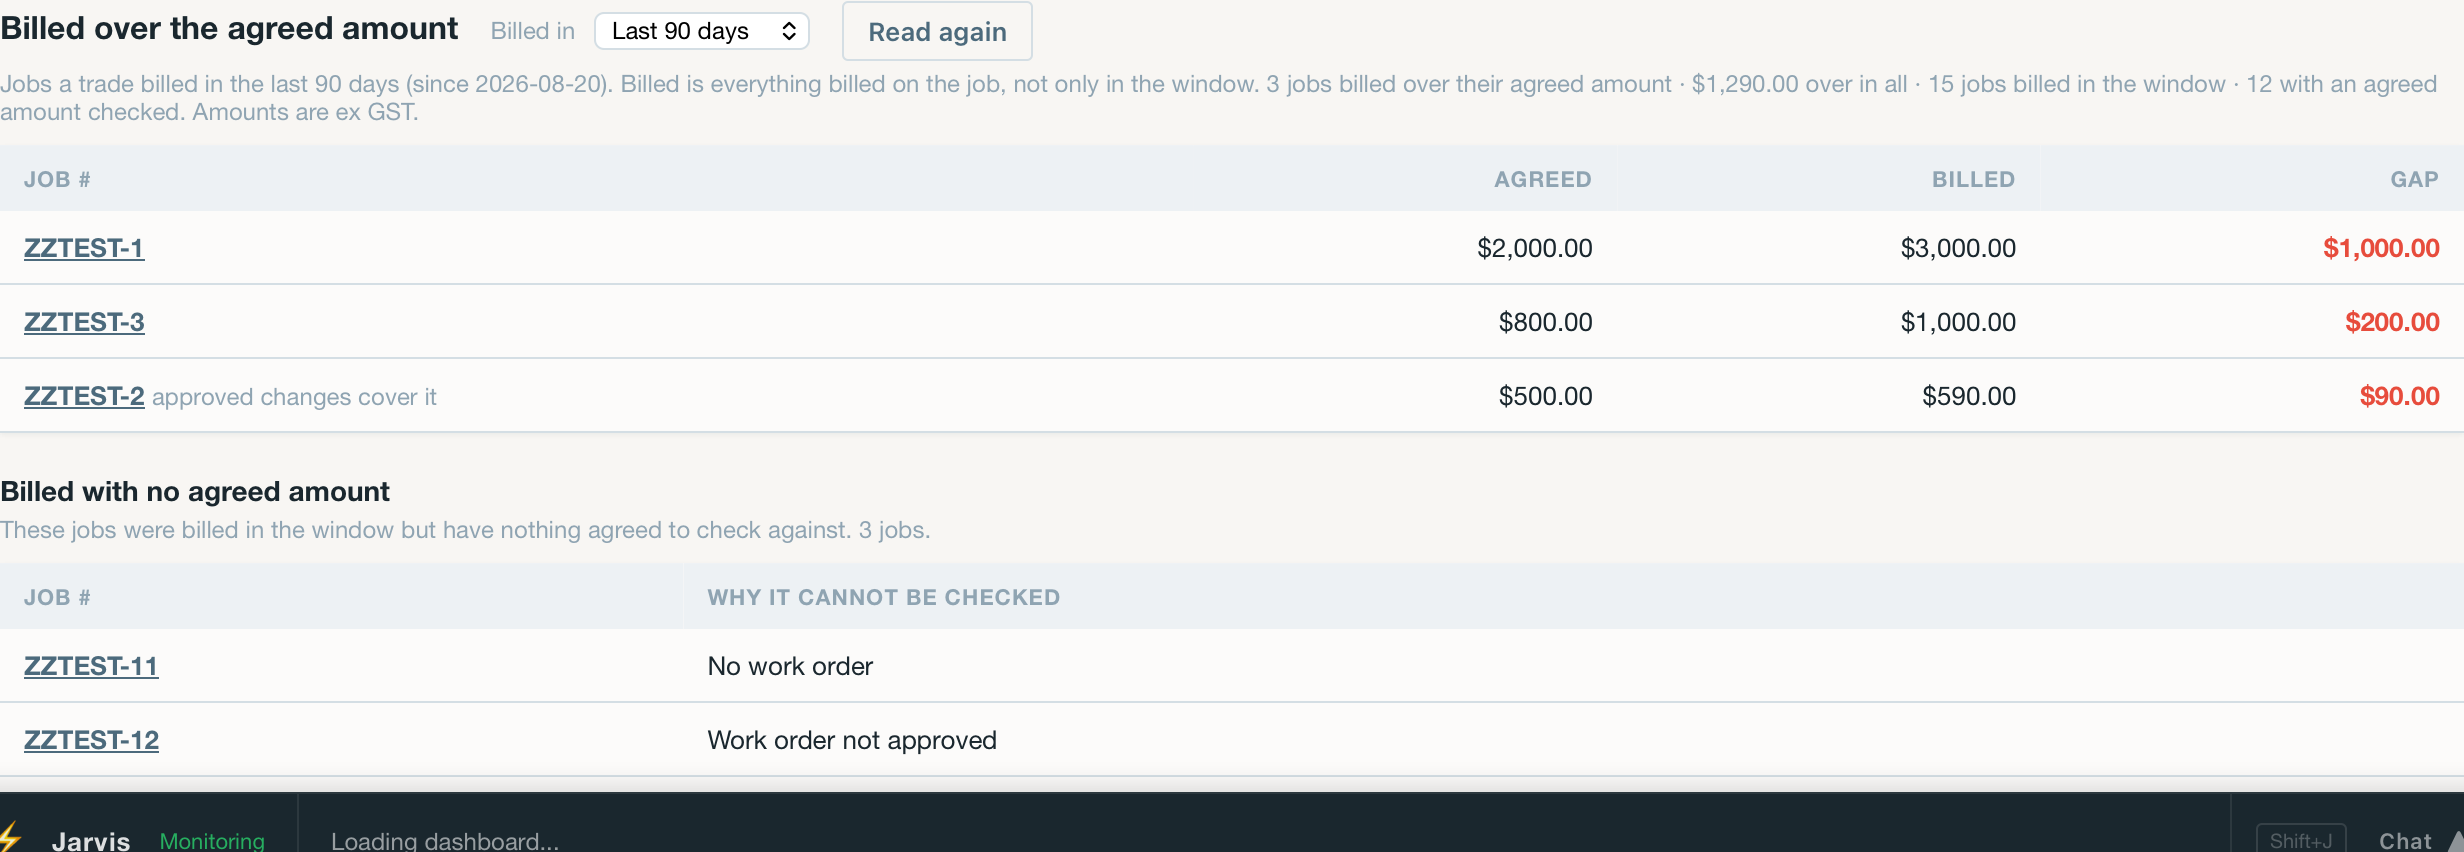
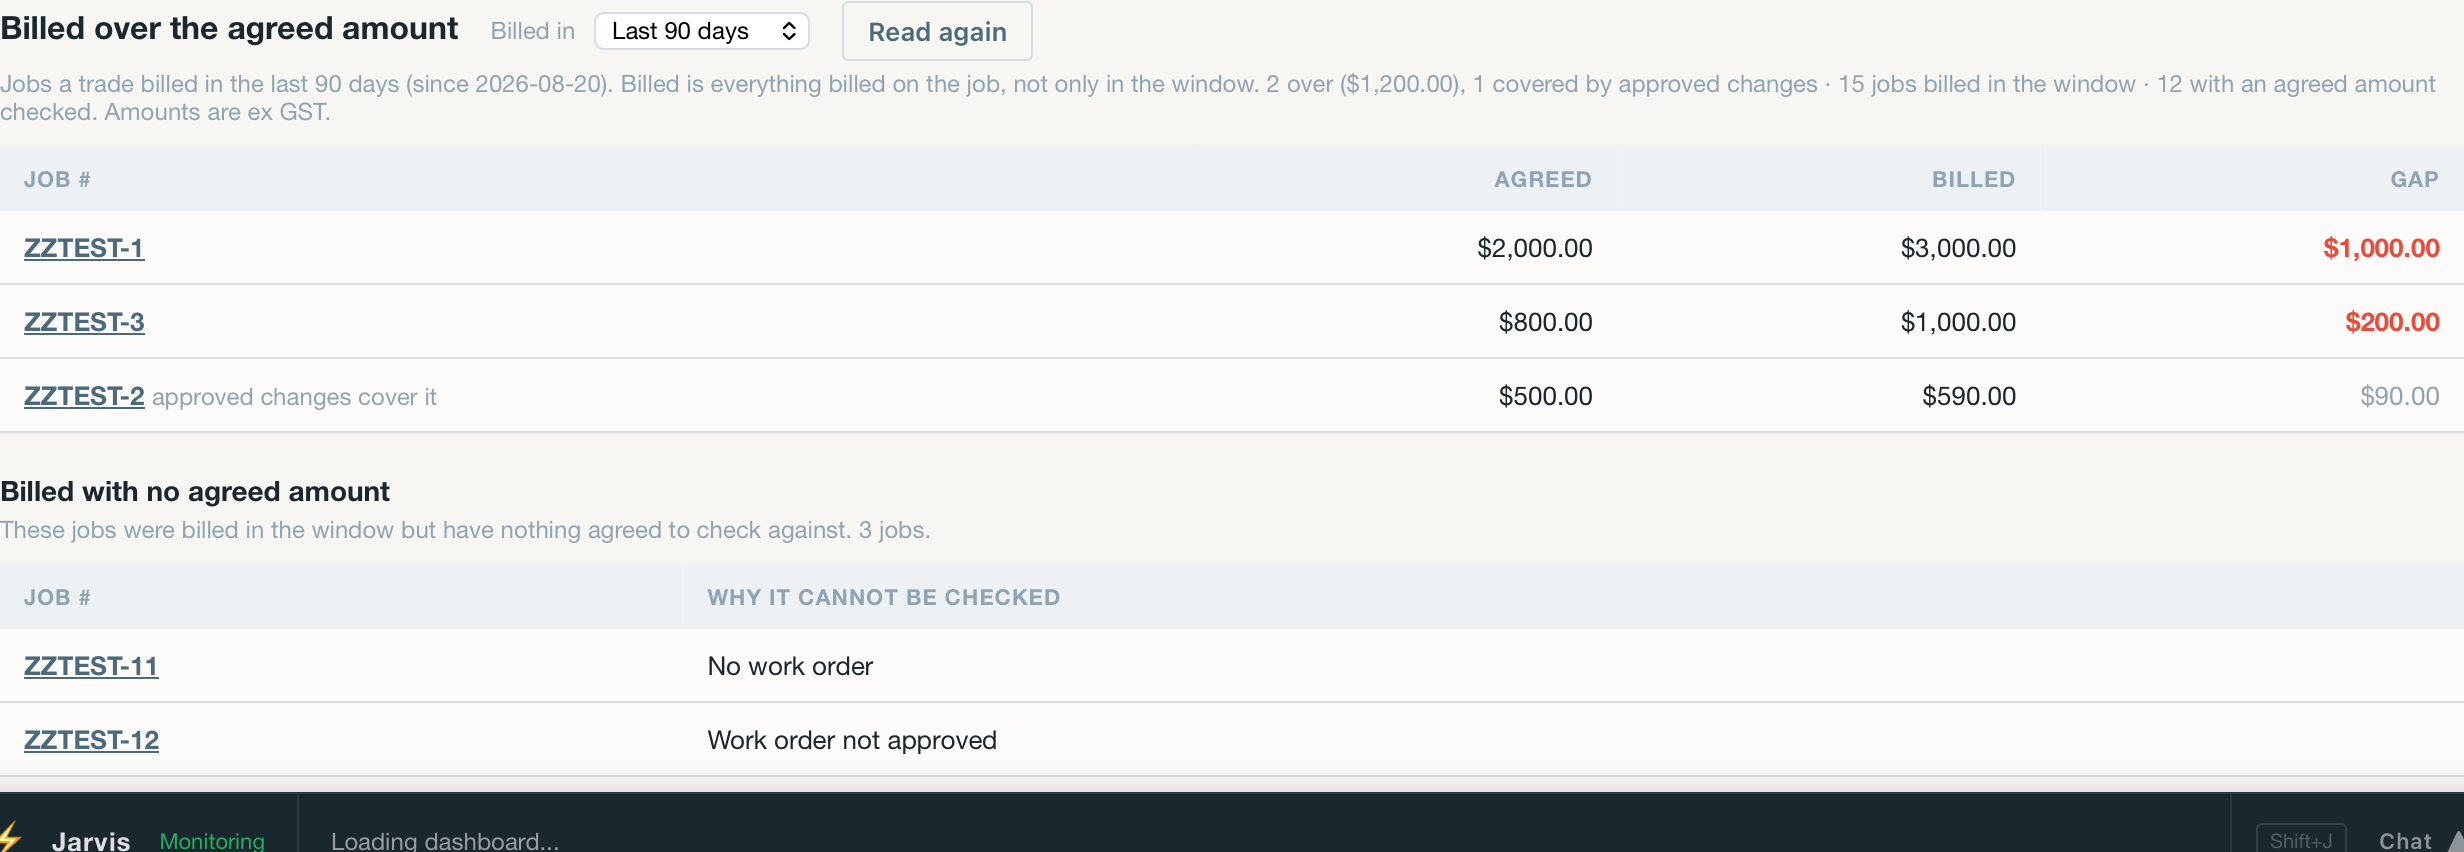
FU49-9d follow-up: a job covered by approved changes is not counted as over, and its gap is grey
Headline reads '2 over ($1,200.00), 1 covered by approved changes'. The total
adds only the gaps of jobs not covered. Label table test for the counts.

Built by Claude Opus 5.5 medium.

Changed region(s): [[0.5, 0.0915, 1.0, 0.1221], [0.0, 0.1221, 0.1562, 0.1526], [0.9375, 0.4577, 1.0, 0.4883]]

diff --git a/tests/e2e/ops-overbilled.spec.js b/tests/e2e/ops-overbilled.spec.js
@@ -126,10 +126,19 @@ test('lists jobs billed over the agreed amount, largest gap first, and opens the
   await expect(rows.nth(2).locator('[data-overbilled-covered]')).toBeVisible();
   const note = host.locator('[data-overbilled-note]');
   await expect(note).toContainText('last 90 days (since 2026-08-20)');
-  await expect(note).toContainText('3 jobs billed over their agreed amount');
-  await expect(note).toContainText('$1,290.00 over in all');
+  // ZZTEST-2 is covered by approved changes: not counted as over, its $90.00 not in the total.
+  await expect(note).toContainText('2 over ($1,200.00), 1 covered by approved changes');
+  await expect(note).not.toContainText('$1,290.00');
   await expect(note).toContainText('15 jobs billed in the window');
   await expect(host.locator('#oblTable thead th')).toHaveText(['Job #', 'Agreed', 'Billed', 'Gap']);
+  // An uncovered gap is red; a covered gap is grey, not red.
+  const colour = (row) => row.locator('[data-overbilled-gap]').evaluate((el) => getComputedStyle(el).color);
+  const red = await page.evaluate(() => { const s = document.createElement('span'); s.style.color = 'var(--sw-red)'; document.body.appendChild(s); const c = getComputedStyle(s).color; s.remove(); return c; });
+  expect(await colour(rows.nth(0))).toBe(red);
+  expect(await colour(rows.nth(1))).toBe(red);
+  expect(await colour(rows.nth(2))).not.toBe(red);
+  await expect(rows.nth(2).locator('.obl-gap-covered')).toHaveCount(1);
+  await expect(rows.nth(2).locator('.obl-gap')).toHaveCount(0);
   await expect(host.locator('[data-overbilled-window]')).toHaveValue('90');
   // Job-level only: no rate, hours or invoice words on the list.
   await expect(host).not.toContainText(/\brate\b|hours|invoice/i);
@@ -138,6 +147,23 @@ test('lists jobs billed over the agreed amount, largest gap first, and opens the
   expect(await page.evaluate(() => window.__opened)).toEqual(['job-c']);
   expect(await overReads(page)).toEqual([{ days: 90 }]);
   expect(await page.evaluate(() => window.__posts)).toEqual([]);
+});
+
+// The headline's counts: a covered job is never counted as over, and its gap
+// is never in the total.
+const HEADLINES = [
+  { name: 'none listed', rows: [], want: '0 over' },
+  { name: 'one over', rows: [{ gap: 1000, covered: false }], want: '1 over ($1,000.00)' },
+  { name: 'one covered only', rows: [{ gap: 90, covered: true }], want: '0 over, 1 covered by approved changes' },
+  { name: 'two over, one covered', rows: [{ gap: 1000, covered: false }, { gap: 200, covered: false }, { gap: 90, covered: true }], want: '2 over ($1,200.00), 1 covered by approved changes' },
+  { name: 'one over, two covered', rows: [{ gap: 50.1, covered: false }, { gap: 300, covered: true }, { gap: 20, covered: true }], want: '1 over ($50.10), 2 covered by approved changes' },
+  { name: 'cents add exactly', rows: [{ gap: 0.1, covered: false }, { gap: 0.2, covered: false }], want: '2 over ($0.30)' },
+];
+
+test('headline label table: over counts and total leave covered jobs out', async ({ page }) => {
+  await boot(page, { 90: 'ok' });
+  const got = await page.evaluate((cases) => cases.map((c) => window.OverbilledCore.headline(c.rows)), HEADLINES);
+  expect(got).toEqual(HEADLINES.map((c) => c.want));
 });
 
 test('jobs billed with no agreed amount are listed apart, each with its reason, and open the job', async ({ page }) => {

diff --git a/modules/ops-overbilled.js b/modules/ops-overbilled.js
@@ -112,8 +112,7 @@ var OverbilledCore = (function () {
       days: num(data.window_days),
       from: data.window_from ? String(data.window_from) : null,
       billedJobs: num(data.billed_jobs),
-      checked: num(data.checked_work_orders),
-      totalGap: num(data.total_gap_ex)
+      checked: num(data.checked_work_orders)
     };
   }
 
@@ -128,7 +127,7 @@ var OverbilledCore = (function () {
       (r.covered ? ' <span class="obl-muted" data-overbilled-covered>approved changes cover it</span>' : '') + '</td>' +
       '<td class="obl-num">' + money(r.agreed) + '</td>' +
       '<td class="obl-num">' + money(r.billed) + '</td>' +
-      '<td class="obl-num obl-gap" data-overbilled-gap>' + money(r.gap) + '</td>' +
+      '<td class="obl-num ' + (r.covered ? 'obl-gap-covered' : 'obl-gap') + '" data-overbilled-gap>' + money(r.gap) + '</td>' +
       '</tr>';
   }
 
@@ -138,11 +137,24 @@ var OverbilledCore = (function () {
       '<td>' + esc(APART_WORDS[a.why] || 'Cannot be checked') + '</td></tr>';
   }
 
+  // "2 over ($1,200.00), 1 covered by approved changes". A job the approved
+  // changes cover is not counted as over and its gap is not in the total: the
+  // total is the server's gap_ex of each job not covered, added in cents.
+  function headline(rows) {
+    var over = 0, covered = 0, cents = 0;
+    for (var i = 0; i < rows.length; i++) {
+      if (rows[i].covered) { covered++; continue; }
+      over++;
+      cents += Math.round(rows[i].gap * 100);
+    }
+    var words = over + ' over' + (over ? ' (' + money(cents / 100) + ')' : '');
+    if (covered) words += ', ' + covered + ' covered by approved changes';
+    return words;
+  }
+
   function summary(ans) {
-    var n = ans.rows.length;
     var parts = [];
-    parts.push(n === 1 ? '1 job billed over its agreed amount' : n + ' jobs billed over their agreed amount');
-    if (n && ans.totalGap !== null) parts.push(money(ans.totalGap) + ' over in all');
+    parts.push(headline(ans.rows));
     if (ans.billedJobs !== null) parts.push(ans.billedJobs + (ans.billedJobs === 1 ? ' job' : ' jobs') + ' billed in the window');
     if (ans.checked !== null) parts.push(ans.checked + ' with an agreed amount checked');
     return parts.join(' · ');
@@ -165,7 +177,7 @@ var OverbilledCore = (function () {
   return {
     WINDOWS: WINDOWS, DEFAULT_DAYS: DEFAULT_DAYS,
     esc: esc, num: num, money: money, windowDays: windowDays, readAnswer: readAnswer,
-    rowHtml: rowHtml, apartRowHtml: apartRowHtml, summary: summary,
+    rowHtml: rowHtml, apartRowHtml: apartRowHtml, headline: headline, summary: summary,
     windowWords: windowWords, failedWords: failedWords
   };
 })();
@@ -193,6 +205,7 @@ var Overbilled = (function () {
       '#woOverbilled .obl-num{text-align:right;white-space:nowrap;font-variant-numeric:tabular-nums}' +
       '#woOverbilled th.obl-num{text-align:right}' +
       '#woOverbilled .obl-gap{color:var(--sw-red,#c0392b);font-weight:600}' +
+      '#woOverbilled .obl-gap-covered{color:var(--sw-text-sec,#6b7280)}' +
       '#woOverbilled .obl-muted{font-size:12px;color:var(--sw-text-sec,#6b7280)}' +
       '#woOverbilled .obl-job{font-weight:600;white-space:nowrap;color:var(--sw-mid,#293c46)}' +
       '#woOverbilled .obl-show{font-size:13px;padding:6px 12px;cursor:pointer}' +
